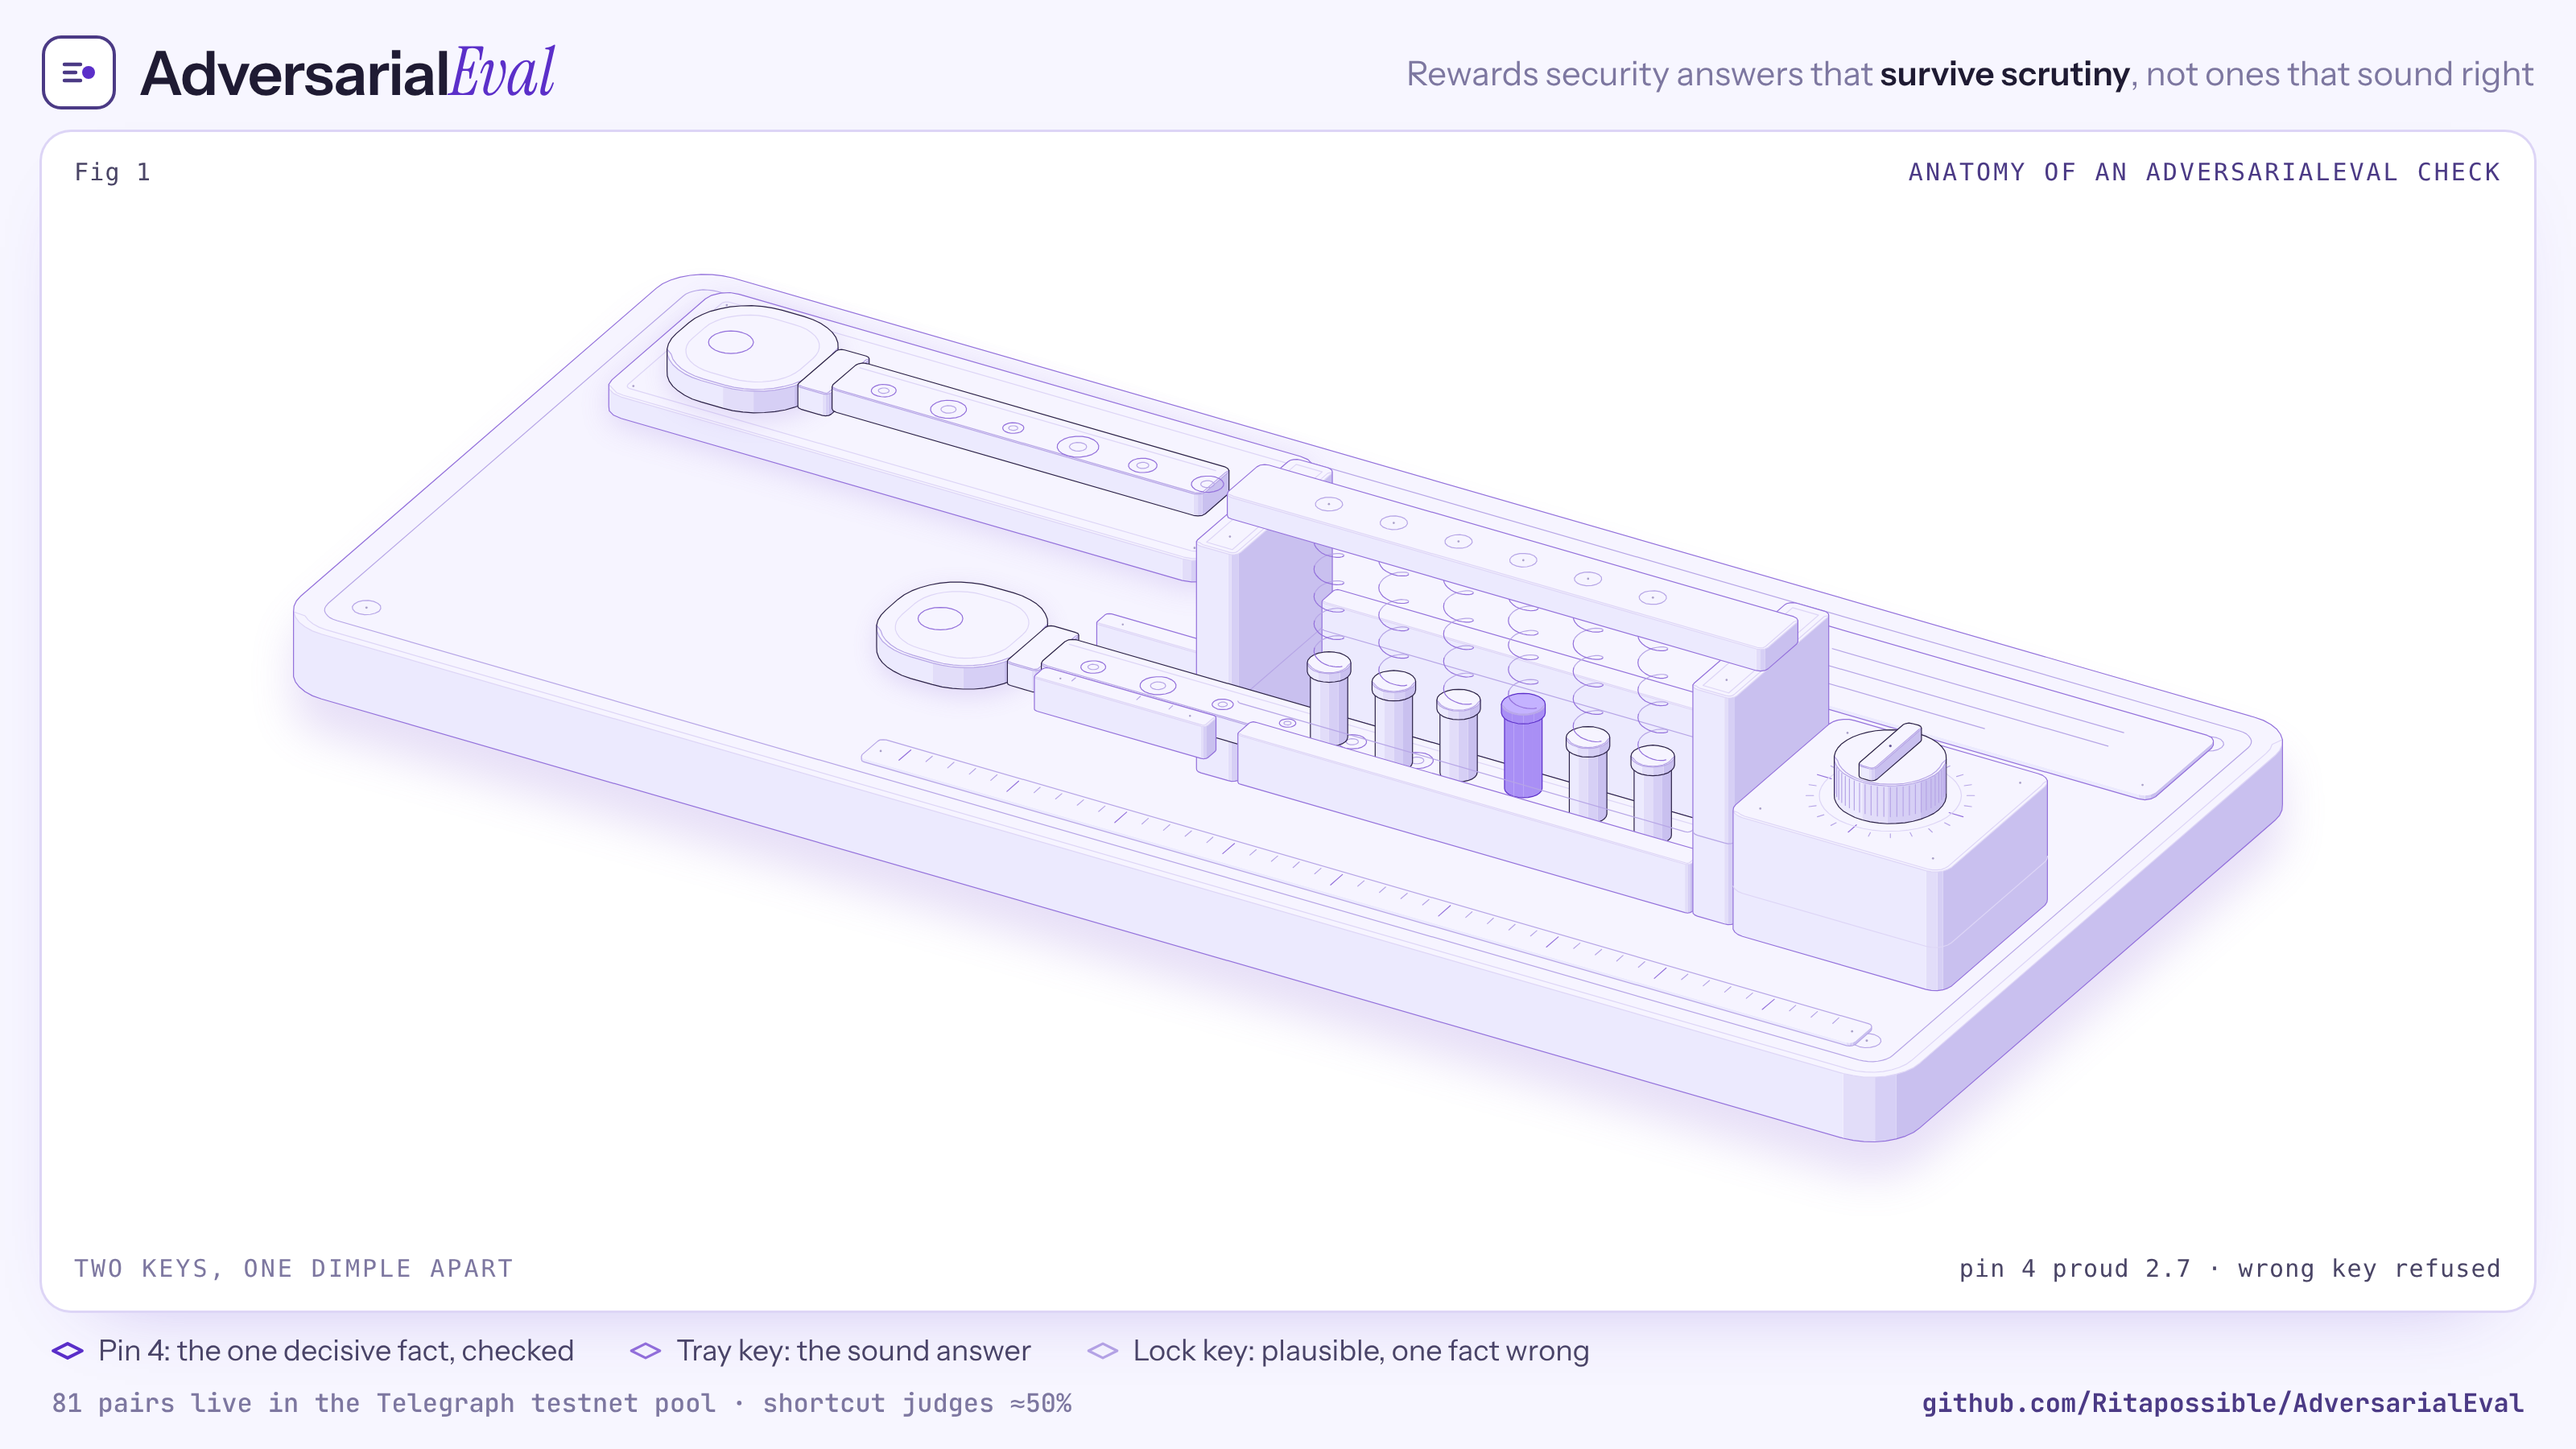
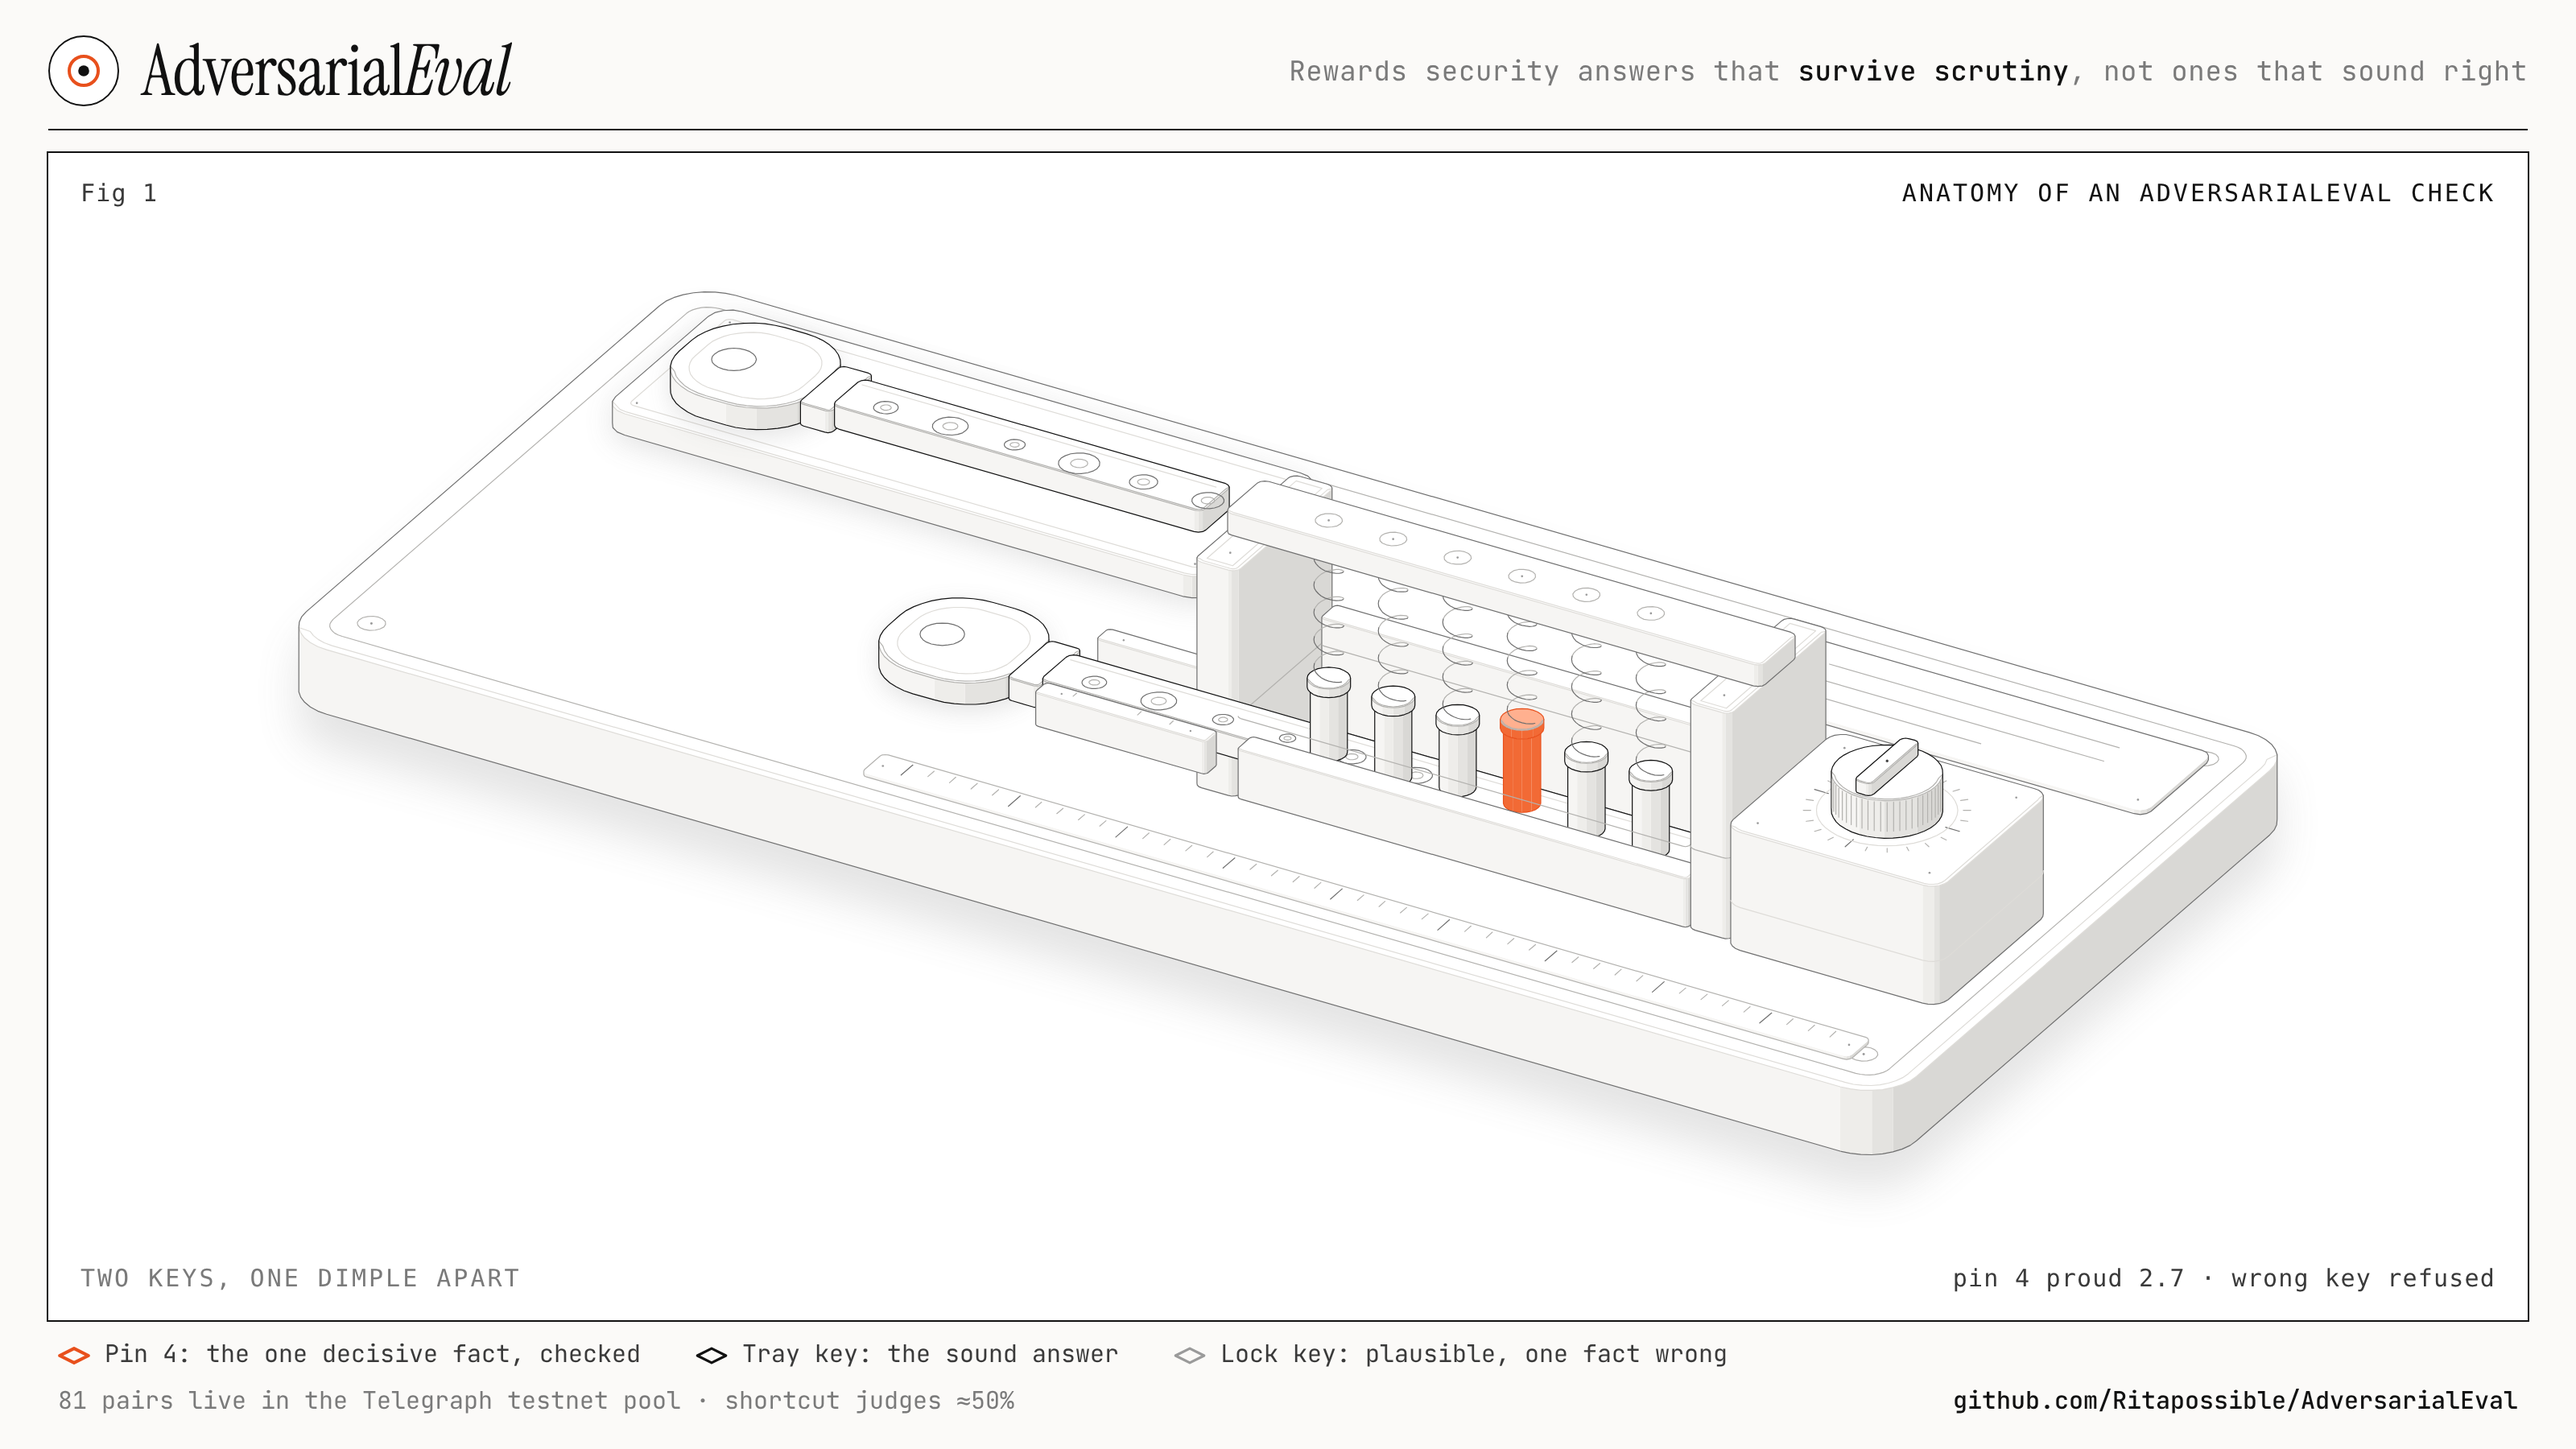
README: ink-style anatomy image and a matching pipeline diagram
The anatomy figure is now black ink on white with one orange accent (pin 4), and its build
script in docs/assets/anatomy-figure/ uses that palette. The "How it works" diagram uses the
same colours (white boxes, black lines and text) with the orange accent on the frozen-rule
decision. Rendered and checked at phone width.

Claude-Session: https://claude.ai/code/session_01D1bzZTFpMbRVPvoaN3UD2U

diff --git a/README.md b/README.md
@@ -74,6 +74,7 @@ uses an independent test set, under the frozen rule.
 ## How it works
 
 ```mermaid
+%%{init: {"theme": "base", "themeVariables": {"background": "#ffffff", "primaryColor": "#ffffff", "primaryBorderColor": "#111111", "primaryTextColor": "#111111", "lineColor": "#111111", "secondaryColor": "#ffffff", "tertiaryColor": "#ffffff", "edgeLabelBackground": "#ffffff"}}}%%
 flowchart TB
   OSV[OSV / GitHub advisories] --> GEN[Generated minimal pairs]
   HAND[Hand-written pairs]
@@ -87,6 +88,8 @@ flowchart TB
   SCORE --> RULE{Frozen rule:<br/>independent test passes?}
   RULE -->|yes| REG[Register on testnet]
   RULE -->|no| LIMIT[Publish as a measured limit]
+  classDef accent fill:#ffffff,stroke:#e8501c,stroke-width:2.5px,color:#111111
+  class RULE accent
 ```
 
 **Integrity measures**

diff --git a/docs/assets/anatomy-figure/README.md b/docs/assets/anatomy-figure/README.md
@@ -10,7 +10,7 @@ can't tell them apart. The lock checks every pin. With the wrong key in the chan
 (the one lit part) rides 2.7 proud of the shear line, so the turn knob stays locked. The
 numbers come from `MODEL` in `build.mjs` and the project's verified reports.
 
-The palette is the lavender and purple of the README's pipeline diagram.
+The palette is ink on paper: black outlines, warm-grey shading, and one orange accent on the lit part (pin 4). The README's pipeline diagram uses the same colours.
 
 **Rebuild:** clone wheresryan22/anatomy, copy `build.mjs` to
 `examples/adversarialeval/build.mjs`, and run `node build.mjs`. It writes
